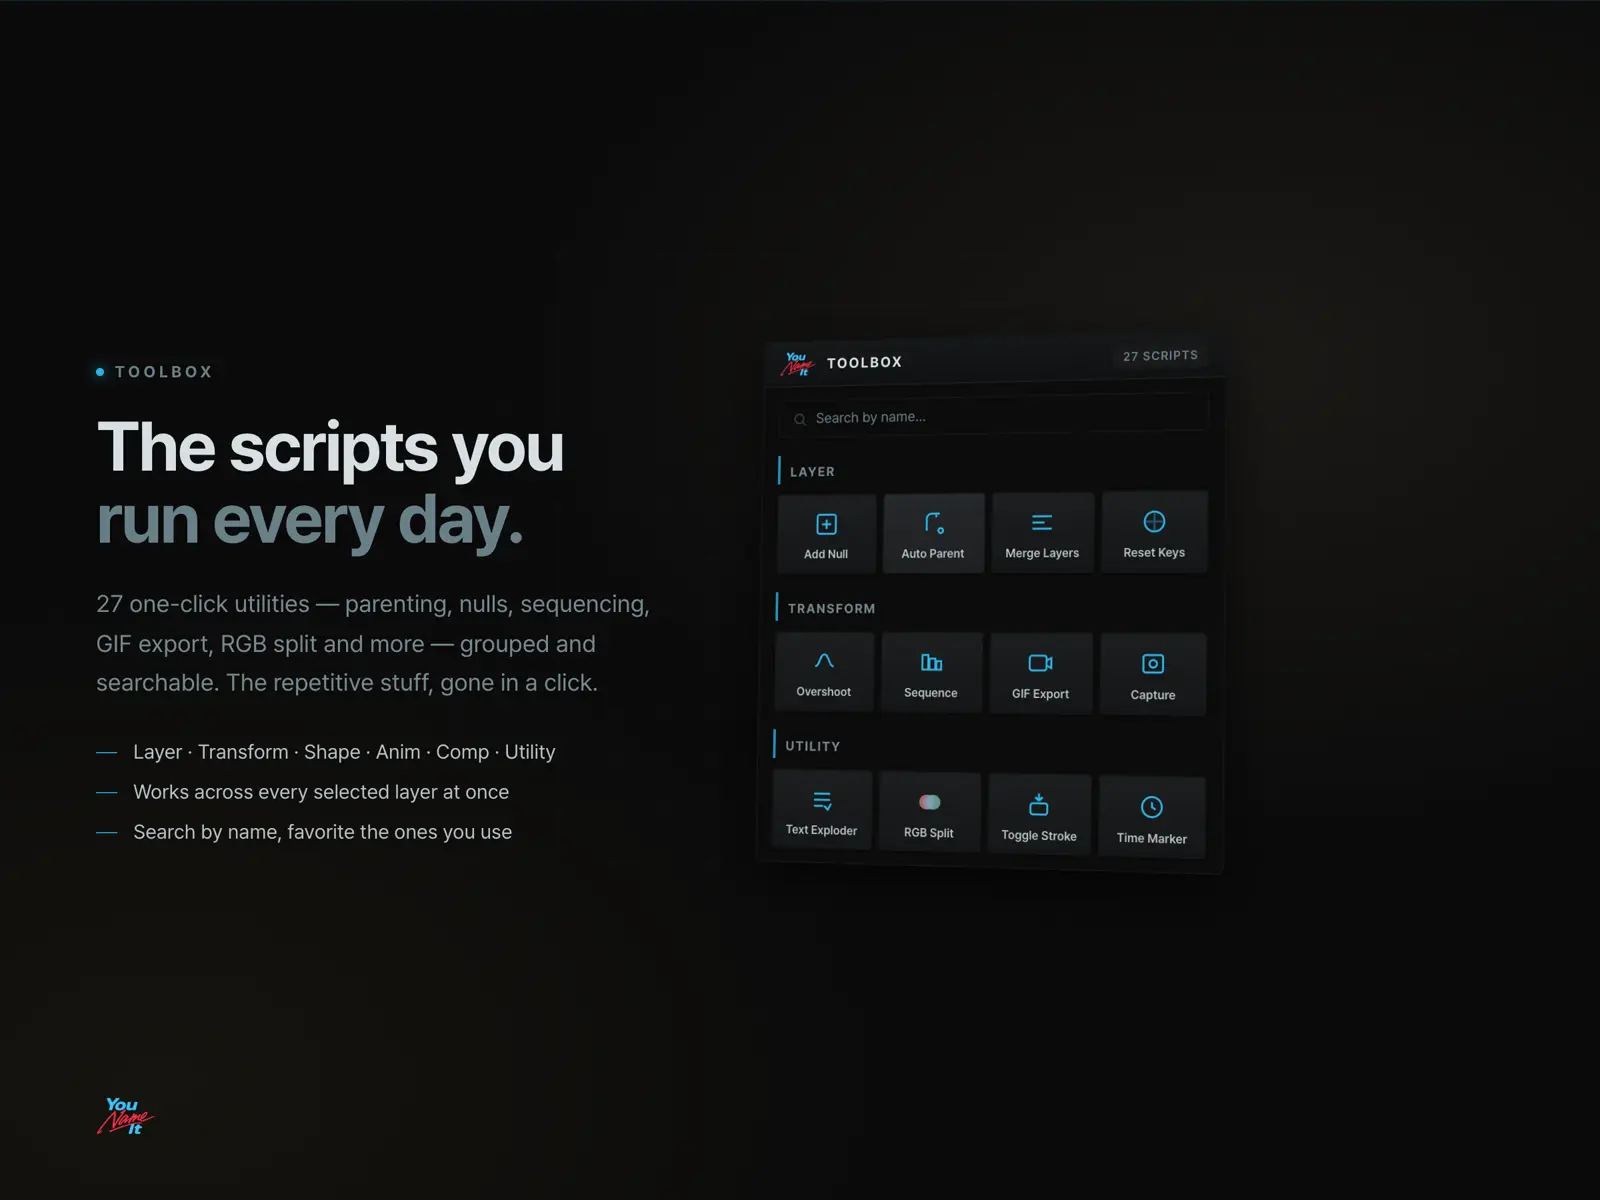
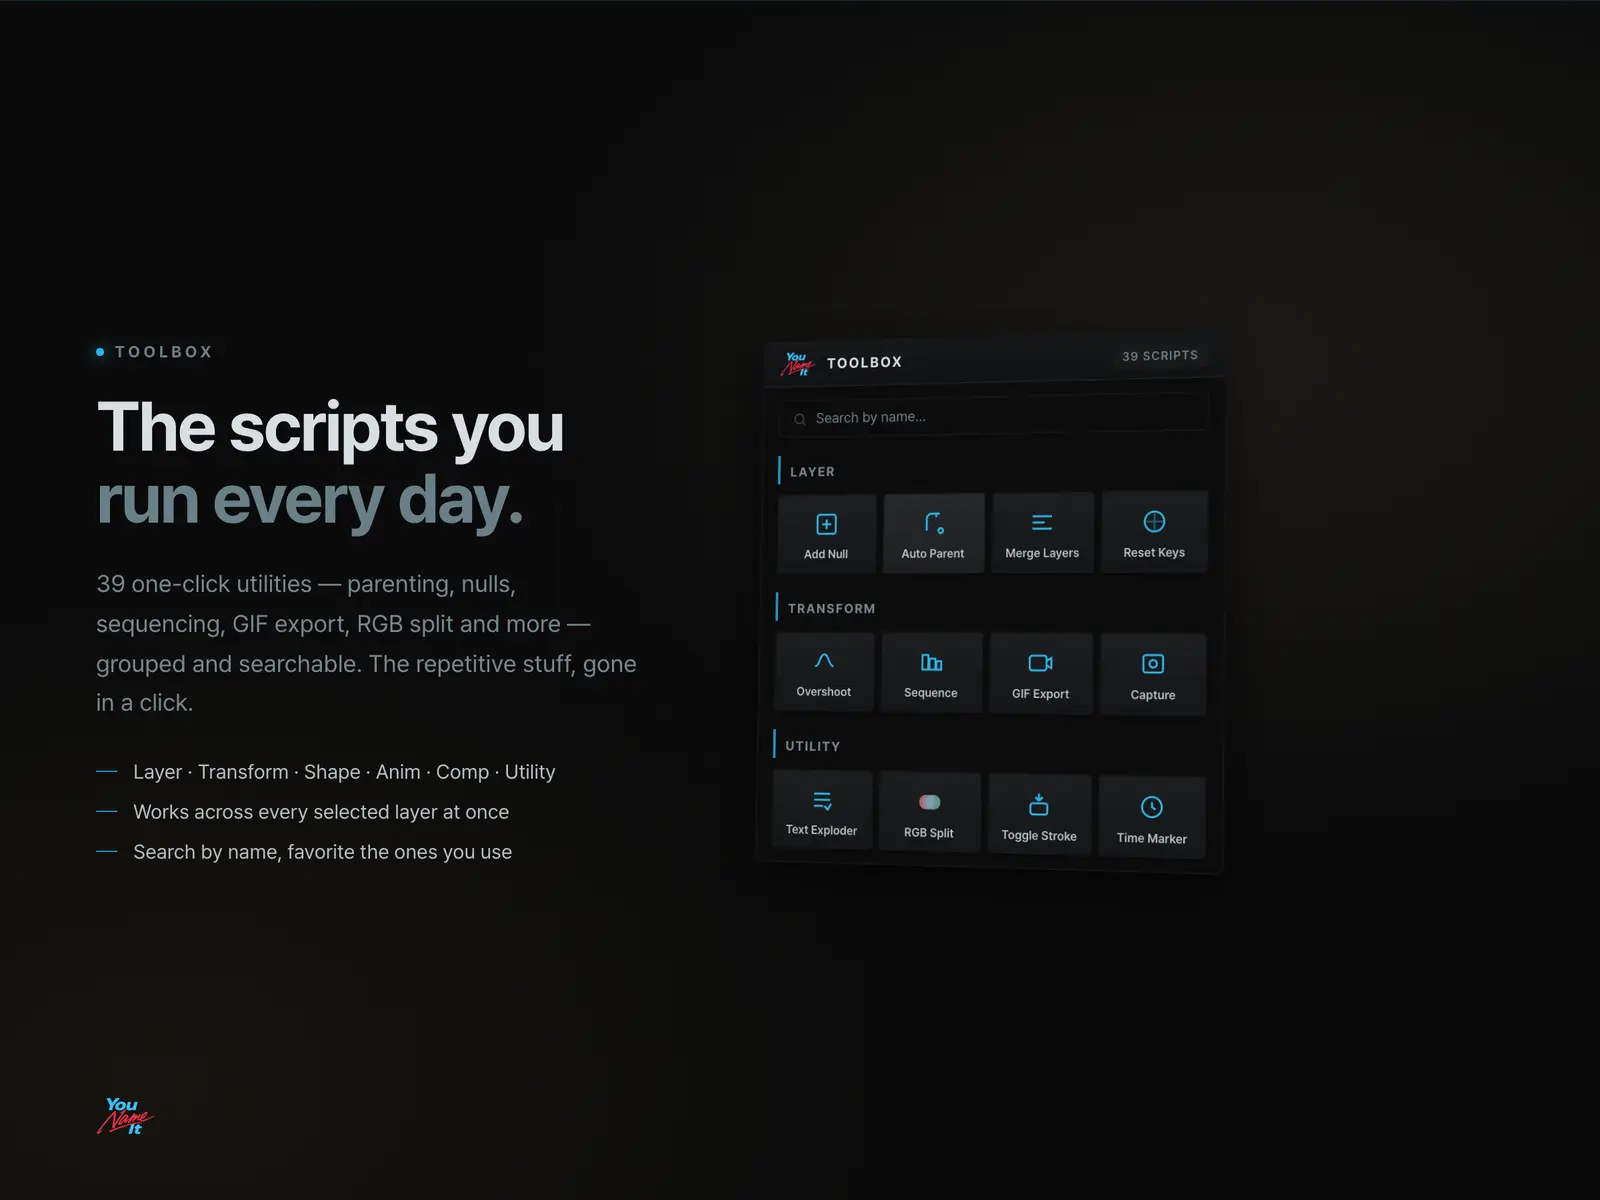
fix(site): 카탈로그 숫자 — 42는 이미 낡았고, 카드 5장이 거짓 숫자를 싣고 있었다
## 🔴 "코드에서 센 값" 이라고 적힌 주석이 일주일 만에 낡았다

`lib/product.ts` 의 `COUNTS.scripts = 42` 는 2026-09-07 실측값인데 플러그인 커밋 `4c50e0b`
(툴 6종 삭제, 09-08)로 무효가 됐다. 실측 = **39**(`BUILTIN_SCRIPTS.length`, grep·런타임 양쪽 일치).
같은 42가 `Panels.tsx` 주석에도 있었다.

그 값이 오늘 아침 Polar 스토어 커버에도 그대로 실렸다 — **"틀린 숫자를 고치는 티켓" 이 준 숫자가
틀렸고, 그걸 검증 없이 썼다.** 나머지 7개는 다시 세서 전부 맞음을 확인했다(motion 26 · text 61 ·
gradients 62 · curves 21 · expressions 69 · MCP tools 56 · skills 29 · effects 5).

## 카드 5장 — 티켓에 없던 거짓 숫자 2개가 더 있었다

`f-motion` 112→26 · `f-toolbox` 27→39 · `f-expr` "80+"→69 (티켓이 아는 3건)
🆕 `f-chat` "42 native AE tools + 32 motion skills" → **56 / 29** — 툴은 오히려 **과소**였고,
스킬은 과장인 데다 노문까지 틀렸다(29 중 `motion-*` 은 16개뿐이라 "built-in skills" 로).
🆕 `f-text` "62 text animations" → **61** — 62는 **그라디언트 수**다. 오늘 커버의 `6 of 42`
(실제 시트 38)와 정확히 같은 단위 혼동이다.

소스와 재굽기는 플러그인 repo `tools/promo/pages/f-*.html`, 여기엔 webp 사본만 들어온다.

Changed region(s): [[0.0625, 0.2775, 0.4062, 0.5858], [0.0625, 0.6167, 0.3438, 0.74]]

diff --git a/lib/product.ts b/lib/product.ts
@@ -10,7 +10,13 @@ export const CHECKOUT_URL =
 
 /* 카탈로그 숫자 — 🔴 코드에서 센 값이다. 손으로 올리지 마라.
    2026-09-07 실측(플러그인 repo):
-     scripts        src/data/builtinScripts.ts        42
+     scripts        src/data/builtinScripts.ts        39  ← 🔴 2026-09-14 재실측.
+                                                            구 42 는 09-07 값이고 커밋 `4c50e0b`
+                                                            (툴 6종 삭제, 09-08)로 무효가 됐다.
+                                                            **이 주석이 "코드에서 센 값" 이라고
+                                                            적혀 있는데도 일주일 만에 낡았다** —
+                                                            카탈로그를 늘리거나 줄이면 여기도 고쳐라
+                                                            (자동 동기화 장치는 없다, 별도 repo다).
      motion         src/data/motionPresets.ts         26  ← 구 112 는 오너가 2026-07-19 에
                                                             26 아키타입으로 줄였다(MOTION_PRESET_SPEC).
                                                             사이트는 두 달간 없는 걸 광고했다.
@@ -21,7 +27,7 @@ export const CHECKOUT_URL =
      MCP tools      src/chat/mcp/schemas.ts           56
      skills         src/chat/runtime/skillsBundle.ts  29 */
 export const COUNTS = {
-  scripts: 42,
+  scripts: 39,
   motion: 26,
   textPresets: 61,
   gradients: 62,

diff --git a/components/Panels.tsx b/components/Panels.tsx
@@ -5,7 +5,9 @@ import { COUNTS } from '@/lib/product';
 /* 🔴 이 절이 존재하는 이유 (2026-09-10 오너): *"웹사이트에 우리가 패널 몇 개 있는지도,
    구체적으로 어떤 용도인지도 잘 모르겠고, 커스텀 패널 만들어놓은 것도 언급 없음."*
    그 전엔 Press 헤드라인이 **"One panel, seven tools."** 였는데 **틀린 말**이다 —
-   패널이 7개고 툴은 42개다(`donys/CSXS/manifest.xml` Extension 7개 실측).
+   패널이 7개고 툴은 **39개**다(패널 = `donys/CSXS/manifest.xml` Extension 7개 · 툴 =
+   `donys/src/data/builtinScripts.ts` `BUILTIN_SCRIPTS.length`, 2026-09-14 실측. 구 42 는
+   2026-09-07 값이고 커밋 `4c50e0b` 로 무효가 됐다 — 숫자를 적으면 **센 자리도 같이 적어라**).
 
    🔴 패널명은 **로케일 무관 영문**이다 (CLAUDE.md 닫힌 결정 2026-09-01) — AE 메뉴 라벨과
       같은 문자열이라 한국어로 번역하지 마라. 사는 사람이 AE 창 메뉴에서 이 이름을 찾는다. */
